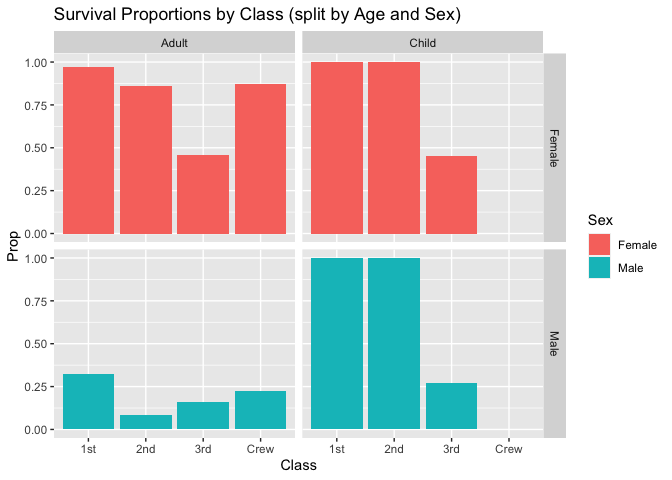
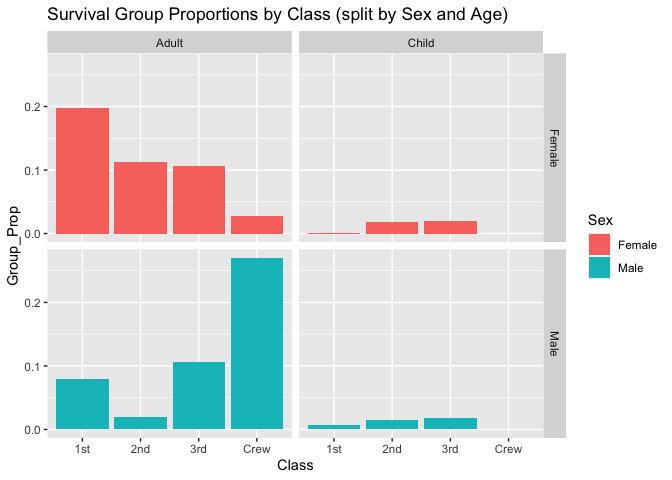
Update plots and observations for Q4 and Q5

diff --git a/challenges/c01-titanic-assignment.md b/challenges/c01-titanic-assignment.md
@@ -347,7 +347,7 @@ df_prop_survived
 df_prop_survived %>%
   ggplot() +
   geom_col(mapping = aes(x = Class, y = Prop, fill = Sex), position = "dodge") +
-  facet_grid(~ Age) +
+  facet_grid(Sex ~ Age) +
   labs(title = "Survival Proportions by Class (split by Sex and Age)")
 ```
 
@@ -357,14 +357,31 @@ df_prop_survived %>%
 
 **Observations**:
 
-  - All children from `1st` and `2nd` survived, but more than half the
-    children in `3rd` did not
+  - As noticed in earlier questions of this challenge, the survival of
+    women was disproportionally greater than the survival of men for
+    most adults (i.e. aside from those in `3rd` class)
+  - Children in `1st` and `2nd` class had high survival rates
+  - All children from `1st` and `2nd` survived, but less than half the
+    children in `3rd` survived
   - Of the surviving adults, aside from `3rd`, more than 50% of the
     women survived
-  - Within `Crew`, over 75% of `Female` survived
+  - Within `Crew`, over 75% of `Female` members survived
       - Wonder which part of the crew they were in - seems plausible
         that they were part of the Deck department
       - `Male` in `2nd` had the lowest survival rate
+  - Normalizing the data validates that the proportion of people who
+    survived from `Crew` is not vastly greater than the proportion of
+    other classes
+      - When looking at proportions, the survival of `Crew` members is
+        comparable to `2nd` class but is not the highest survival
+        proportion
+      - From the count plots in earlier parts of the challenge, it
+        seemed odd that so many more crew members survived than
+        passengers, but it makes sense that the proportion isn’t as high
+          - Since `Crew` represented the largest `Class` on the Titanic,
+            it seemed like there were a lot of survivors based on the
+            counts, but when looking at proportions, we can see that the
+            survival proportion was not the greatest among the classes
 
 **q5** Create a plot showing the group-proportion of passengers who
 *did* survive, along with aesthetics for `Class`, `Sex`, *and* `Age`.
@@ -374,56 +391,58 @@ Document your observations below.
 additional variables\!
 
 ``` r
-df_prop_survived <- filter(df_prop, Survived == "Yes")
+df_survived <- filter(df_titanic, Survived == "Yes")
 
-df_prop_survived
+total_survived <- sum(df_survived$n)
+
+df_survived_group_prop <-
+  df_survived %>%
+  group_by(Class, Sex, Age) %>%
+  mutate(Group_Prop = n / total_survived) %>%
+  ungroup()
+
+df_survived_group_prop
 ```
 
-    ## # A tibble: 16 x 7
-    ##    Class Sex    Age   Survived     n Total     Prop
-    ##    <chr> <chr>  <chr> <chr>    <dbl> <dbl>    <dbl>
-    ##  1 1st   Male   Child Yes          5     5   1     
-    ##  2 2nd   Male   Child Yes         11    11   1     
-    ##  3 3rd   Male   Child Yes         13    48   0.271 
-    ##  4 Crew  Male   Child Yes          0     0 NaN     
-    ##  5 1st   Female Child Yes          1     1   1     
-    ##  6 2nd   Female Child Yes         13    13   1     
-    ##  7 3rd   Female Child Yes         14    31   0.452 
-    ##  8 Crew  Female Child Yes          0     0 NaN     
-    ##  9 1st   Male   Adult Yes         57   175   0.326 
-    ## 10 2nd   Male   Adult Yes         14   168   0.0833
-    ## 11 3rd   Male   Adult Yes         75   462   0.162 
-    ## 12 Crew  Male   Adult Yes        192   862   0.223 
-    ## 13 1st   Female Adult Yes        140   144   0.972 
-    ## 14 2nd   Female Adult Yes         80    93   0.860 
-    ## 15 3rd   Female Adult Yes         76   165   0.461 
-    ## 16 Crew  Female Adult Yes         20    23   0.870
+    ## # A tibble: 16 x 6
+    ##    Class Sex    Age   Survived     n Group_Prop
+    ##    <chr> <chr>  <chr> <chr>    <dbl>      <dbl>
+    ##  1 1st   Male   Child Yes          5    0.00703
+    ##  2 2nd   Male   Child Yes         11    0.0155 
+    ##  3 3rd   Male   Child Yes         13    0.0183 
+    ##  4 Crew  Male   Child Yes          0    0      
+    ##  5 1st   Female Child Yes          1    0.00141
+    ##  6 2nd   Female Child Yes         13    0.0183 
+    ##  7 3rd   Female Child Yes         14    0.0197 
+    ##  8 Crew  Female Child Yes          0    0      
+    ##  9 1st   Male   Adult Yes         57    0.0802 
+    ## 10 2nd   Male   Adult Yes         14    0.0197 
+    ## 11 3rd   Male   Adult Yes         75    0.105  
+    ## 12 Crew  Male   Adult Yes        192    0.270  
+    ## 13 1st   Female Adult Yes        140    0.197  
+    ## 14 2nd   Female Adult Yes         80    0.113  
+    ## 15 3rd   Female Adult Yes         76    0.107  
+    ## 16 Crew  Female Adult Yes         20    0.0281
 
 ``` r
-df_prop_survived %>%
+df_survived_group_prop %>%
   ggplot() +
-  geom_col(mapping = aes(x = Class, y = Prop, fill = Sex), position = "dodge") +
+  geom_col(mapping = aes(x = Class, y = Group_Prop, fill = Sex)) +
   facet_grid(Sex ~ Age) +
-  labs(title = "Survival Proportions by Class (split by Age and Sex)")
+  labs(title = "Survival Group Proportions by Class (split by Sex and Age)")
 ```
-
-    ## Warning: Removed 2 rows containing missing values (geom_col).
 
 ![](c01-titanic-assignment_files/figure-gfm/q5-task-1.png)<!-- -->
 
 **Observations**:
 
-  - As noticed in earlier questions of this challenge, the survival of
-    women was disporportionally greater than the survival of men for
-    most adults (aside from thos in `3rd` class)
-  - Children in `1st` and `2nd` class had high survival rates
-  - When looking at proportions, the survival of `Crew` members is
-    comparable to `2nd` class but is not the highest survival proportion
-      - This helps provide some clarity as from the count plots it
-        seemed as though a lot more crew members survived than
-        passengers (which seemed odd at first), but it makes sense that
-        the proportion isn’t as high since `Crew` represented the
-        largest `Class` on the Titanic
+  - Among all the survivors, `Male` survivors from `Crew` made up the
+    largest percentage (\> 25%)
+  - Among all the passengers, `Female` survivors from `1st` made up the
+    largest percentage (\~20%)
+  - Children made up a small percentage of the survivors
+      - This is not unexpected given how few children there were aboard
+        the Titanic
 
 # Notes
 
